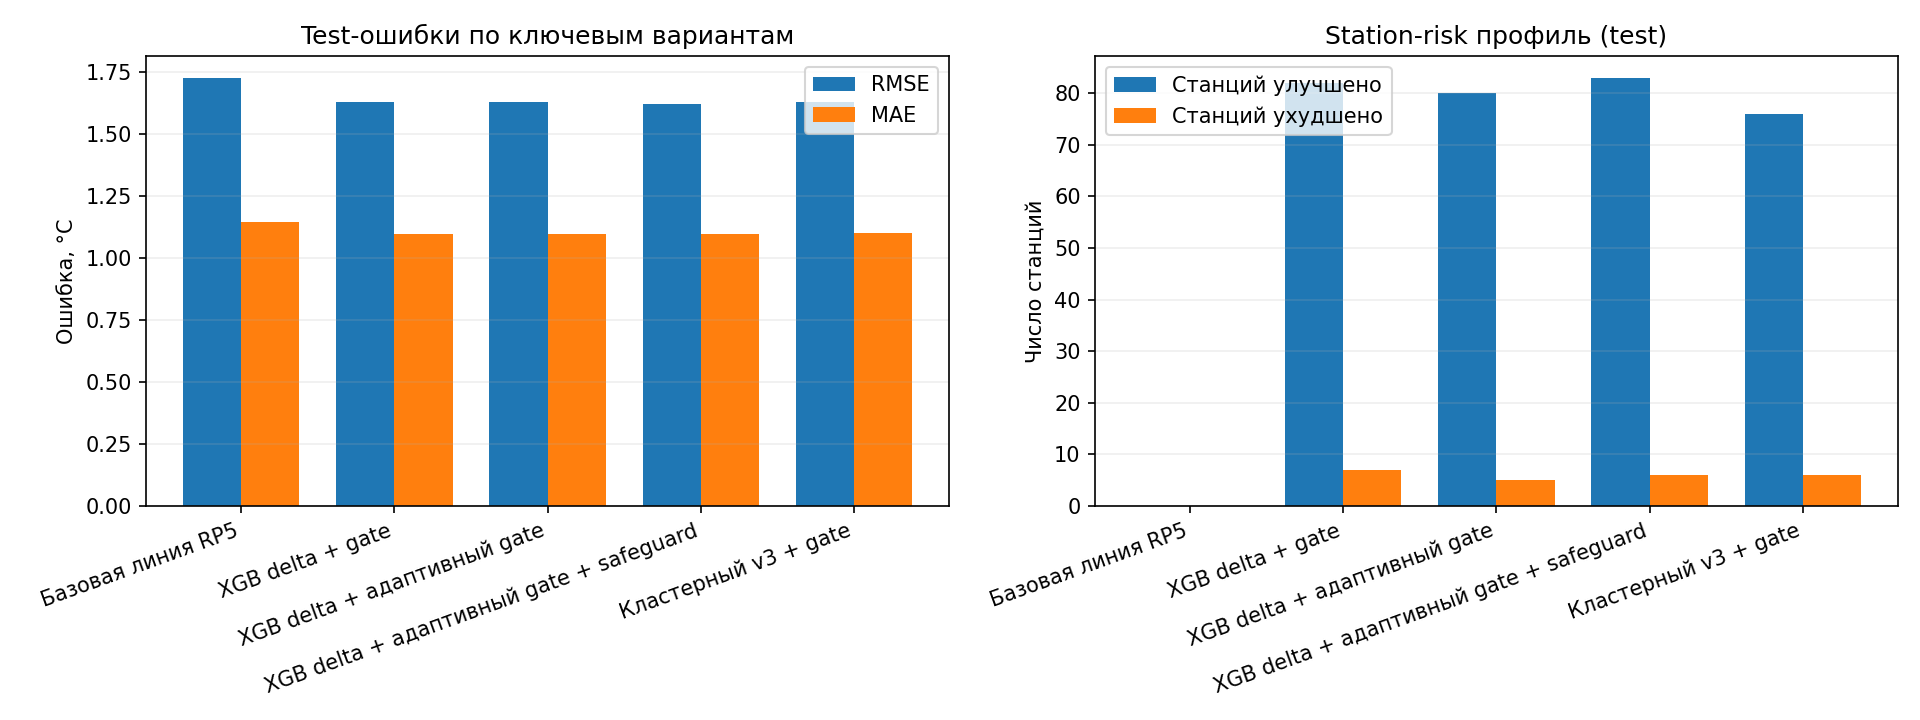
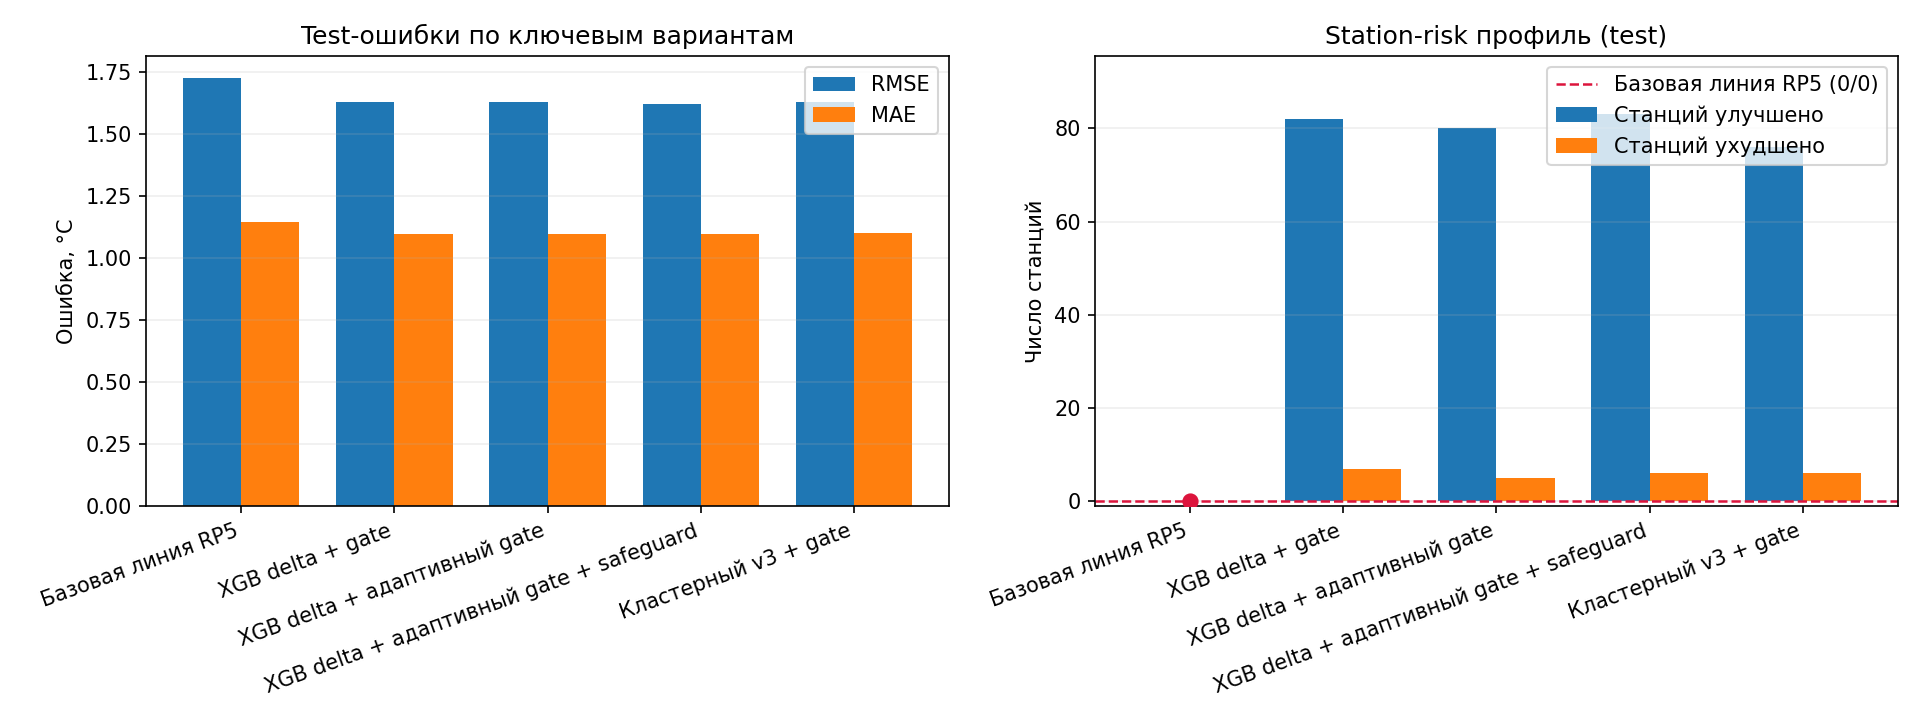
Fix station-risk baseline visibility in Fig.14 and Fig.16

diff --git a/transfer/plot_bridge_v3_focus_ru.py b/transfer/plot_bridge_v3_focus_ru.py
@@ -23,6 +23,7 @@ LABELS = {
 def parse_args() -> argparse.Namespace:
     p = argparse.ArgumentParser(description="Фокусный график по bridge v3 (русские подписи).")
     p.add_argument("--run-dir", type=Path, required=True)
+    p.add_argument("--output", type=Path, default=None, help="Опциональный путь для сохранения PNG.")
     return p.parse_args()
 
 
@@ -72,6 +73,22 @@ def main() -> None:
 
     axes[1].bar(x - width / 2, risk["improved_station_count"].to_numpy(), width=width, label="Станций улучшено")
     axes[1].bar(x + width / 2, risk["worsened_station_count"].to_numpy(), width=width, label="Станций ухудшено")
+
+    # Baseline (RP5) имеет риск-профиль 0/0 и не виден столбцами.
+    # Добавляем явную опорную линию и маркер, чтобы baseline был читаем на графике.
+    if "baseline" in ordered_variants:
+        base_idx = ordered_variants.index("baseline")
+        ymax = int(
+            max(
+                1,
+                risk["improved_station_count"].max(),
+                risk["worsened_station_count"].max(),
+            )
+        )
+        axes[1].set_ylim(-1, ymax * 1.15)
+        axes[1].axhline(0, color="crimson", linestyle="--", linewidth=1.2, label="Базовая линия RP5 (0/0)")
+        axes[1].scatter([base_idx], [0], color="crimson", s=46, zorder=5)
+
     axes[1].set_xticks(x)
     axes[1].set_xticklabels([LABELS[v] for v in ordered_variants], rotation=20, ha="right")
     axes[1].set_ylabel("Число станций")
@@ -80,7 +97,9 @@ def main() -> None:
     axes[1].legend()
 
     fig.tight_layout()
-    fig.savefig(run_dir / "v3_focus_compare_test.png", dpi=150)
+    out = args.output.resolve() if args.output else (run_dir / "v3_focus_compare_test.png")
+    out.parent.mkdir(parents=True, exist_ok=True)
+    fig.savefig(out, dpi=150)
     plt.close(fig)
 
 
